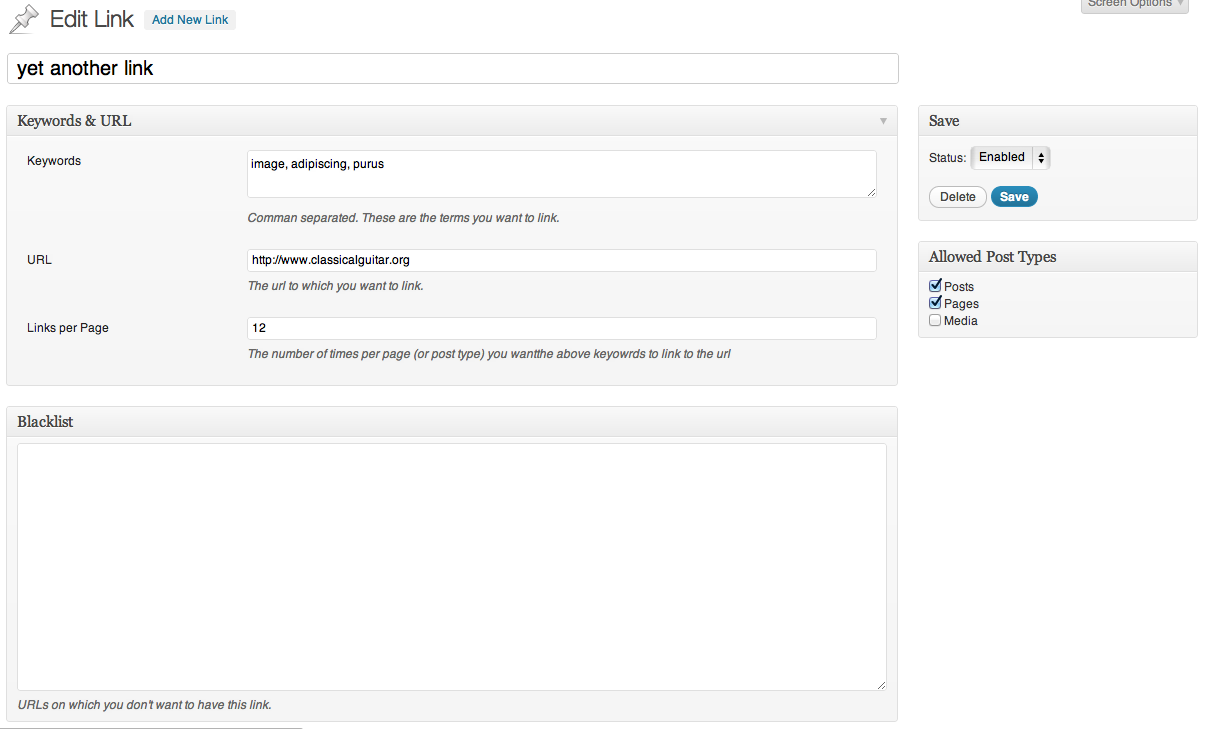
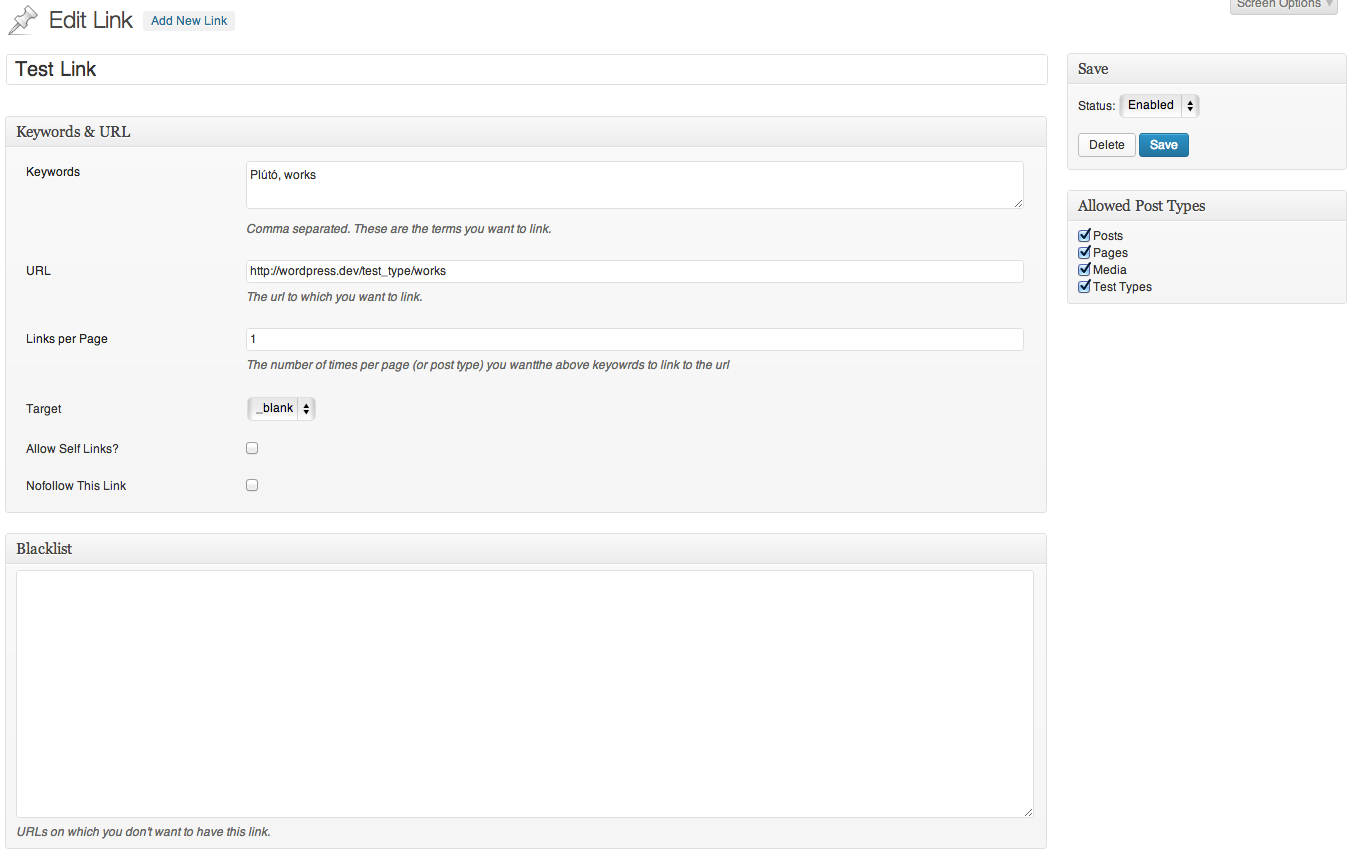
SEO Auto-Linker: Sync v0.9 from upstream at 69fbc6cd15311ed68b4ed0c1dcfe045d989c2045
git-svn-id: https://vip-svn.wordpress.com/plugins@88055 dd790b09-5c1c-0410-8744-875116bcd8a6

diff --git a/seo-auto-linker/inc/front.php b/seo-auto-linker/inc/front.php
@@ -23,6 +23,15 @@ class SEO_Auto_Linker_Front extends SEO_Auto_Linker_Base
      */
     private static $permalink;
 
+    /**
+     * Container for word boundaries.
+     *
+     * @since   0.9
+     * @access  private
+     * @var     array
+     */
+    private static $boundaries = array();
+
     /*
      * Adds actions and filters and such
      *
@@ -106,13 +115,23 @@ class SEO_Auto_Linker_Front extends SEO_Auto_Linker_Base
             $regex = self::get_kw_regex($l);
             $url = self::get_link_url($l);
             $max = self::get_link_max($l);
-            if(!$regex || !$url || !$max)
-                continue;
+
+            if(
+                !$regex || !$url || !$max ||
+                ($url == self::$permalink && !self::self_links_allowed($l))
+            ) continue;
             
             $target = self::get_link_target($l);
+            $replace = sprintf(
+                '$1<a href="%1$s" title="$2" target="%2$s" %3$s>$2</a>$3',
+                esc_url($url),
+                esc_attr($target),
+                self::is_nofollow($l) ? 'rel="nofollow"' : ''
+            );
+
             $filtered = preg_replace(
                 $regex,
-                '$1<a href="' . esc_url( $url ) . '" title="$2" target="' . $target . '">$2</a>$3',
+                $replace,
                 $filtered,
                 absint($max)
             );
@@ -135,8 +154,10 @@ class SEO_Auto_Linker_Front extends SEO_Auto_Linker_Base
     {
         $rv = true;
 
-        if(!is_singular() || !in_the_loop())
-            $rv = false;
+        if(
+            (!is_singular() && apply_filters('seoal_only_single', true)) ||
+            !in_the_loop()
+        ) $rv = false;
 
         if(strpos($post->post_content, '<!--nolinks-->') !== false)
             $rv = false;
@@ -213,7 +234,15 @@ class SEO_Auto_Linker_Front extends SEO_Auto_Linker_Base
         $keywords = self::get_keywords($link);
         if(!$keywords)
             return false;
-        return sprintf('/(\b)(%s)(\b)/ui', implode('|', $keywords));
+
+        list($ob, $cb) = self::get_boundaries($link);
+
+        return sprintf(
+            '/(%s)(%s)(%s)/ui',
+            $ob,
+            implode('|', $keywords),
+            $cb
+        );
     }
 
     /*
@@ -274,6 +303,38 @@ class SEO_Auto_Linker_Front extends SEO_Auto_Linker_Base
             $target = '_self';
         }
         return esc_attr($target);
+    }
+
+    /**
+     * Check whether or not a link allows a given post to have links to itself.
+     *
+     * @since   0.85
+     * @access  protected
+     * @return  bool
+     */
+    protected static function self_links_allowed($link)
+    {
+        return apply_filters(
+            'seoal_allow_self_links', 
+            'on' == self::get_meta($link, 'self_links'),
+            $link
+        );
+    }
+
+    /**
+     * check whether or not a link is nofollowed.
+     *
+     * @since   0.85
+     * @access  protected
+     * @return  bool
+     */
+    protected static function is_nofollow($link)
+    {
+        return apply_filters(
+            'seoal_link_nofollow',
+            'on' == self::get_meta($link, 'nofollow'),
+            $link
+        );
     }
 
     /*
@@ -341,6 +402,37 @@ class SEO_Auto_Linker_Front extends SEO_Auto_Linker_Base
             array_values($arr),
             $content
         );
+    }
+
+    /**
+     * Get regex word boundaries.
+     *
+     * @since   0.9
+     * @access  protected
+     * @uses    get_option
+     * @return  array
+     */
+    public static function get_boundaries($link)
+    {
+        $opts = get_option(self::SETTING, array());
+
+        $alt_b = isset($opts['word_boundary']) && 'on' == $opts['word_boundary'];
+
+        if(apply_filters('seoal_unicode_boundaries', $alt_b, $link))
+        {
+            $ob = '(?<!\pL)'; // Negative look behind (anything that isn't a unicode letter)
+            $cb = '(?!\pL)'; // Negative look ahead (anything that isn't a unicode letter)
+        }
+        else
+        {
+            $ob = $cb = '\b';
+        }
+
+        // Don't change these unless you know what you're doing. Really.
+        $ob = apply_filters('seoal_opening_word_boundary', $ob, $link);
+        $cb = apply_filters('seoal_closing_word_boundary', $cb, $link);
+
+        return array($ob, $cb);
     }
 }
 

diff --git a/seo-auto-linker/inc/post-type.php b/seo-auto-linker/inc/post-type.php
@@ -254,19 +254,28 @@ class SEO_Auto_Linker_Post_Type extends SEO_Auto_Linker_Base
             return;
 
         $map = array(
-            'keywords' => array('strip_tags', 'esc_attr'),
-            'url'      => array('esc_url'),
-            'times'    => array('absint'),
-            'target'   => array('esc_attr')
+            'keywords'   => array('strip_tags', 'esc_attr'),
+            'url'        => array('esc_url'),
+            'times'      => array('absint'),
+            'target'     => array('esc_attr'),
+            'self_links' => 'checkbox',
+            'nofollow'   => 'checkbox',
         );
         foreach($map as $key => $escapers)
         {
             $key = self::get_key($key);
             if(isset($_POST[$key]) && $_POST[$key])
             {
-                $val = $_POST[$key];
-                foreach($escapers as $e)
-                    $val = call_user_func($e, $val);
+                if('checkbox' == $escapers)
+                {
+                    $val = 'on';
+                }
+                else
+                {
+                    $val = $_POST[$key];
+                    foreach($escapers as $e)
+                        $val = call_user_func($e, $val);
+                }
                 update_post_meta($post_id, $key, $val);
             }
             else
@@ -350,6 +359,8 @@ class SEO_Auto_Linker_Post_Type extends SEO_Auto_Linker_Base
     public static function keyword_cb($post)
     {
         $target = self::get_meta('target');
+        $self_links = self::get_meta('self_links', 'off');
+        $nofollow = self::get_meta('nofollow', 'off');
         ?>
         <table class="form-table">
             <tr>
@@ -361,7 +372,7 @@ class SEO_Auto_Linker_Post_Type extends SEO_Auto_Linker_Base
                 <td>
                     <textarea class="widefat" name="<?php self::key('keywords'); ?>" id="<?php self::key('keywords'); ?>"><?php self::meta('keywords', 'textarea'); ?></textarea>
                     <p class="description">
-                        <?php _e('Comman separated. These are the terms you want to link.', 'seoal'); ?>
+                        <?php _e('Comma separated. These are the terms you want to link.', 'seoal'); ?>
                     </p>
                 </td>
             </tr>
@@ -407,6 +418,35 @@ class SEO_Auto_Linker_Post_Type extends SEO_Auto_Linker_Base
                         <?php endforeach; ?>
                     </select>
                 </td>
+            </tr>
+            <tr>
+                <td>
+                    <label for="<?php self::key('self_links'); ?>">
+                        <?php _e('Allow Self Links?', 'seoal'); ?>
+                    </label>
+                </td>
+                <td>
+                    <input type="checkbox"
+                           name="<?php self::key('self_links'); ?>"
+                           id="<?php self::key('target'); ?>"
+                           value="on"
+                           <?php checked($self_links, 'on'); ?> />
+                </td>
+            </tr>
+            <tr>
+                <td>
+                    <label for="<?php self::key('nofollow'); ?>">
+                        <?php _e('Nofollow This Link', 'seoal'); ?>
+                    </label>
+                </td>
+                <td>
+                    <input type="checkbox"
+                           name="<?php self::key('nofollow'); ?>"
+                           id="<?php self::key('nofollow'); ?>"
+                           value="on"
+                           <?php checked($nofollow, 'on'); ?> />
+                </td>
+            </tr>
         </table>
         <?php
     }

diff --git a/seo-auto-linker/inc/admin.php b/seo-auto-linker/inc/admin.php
@@ -31,7 +31,7 @@ class SEO_Auto_Linker_Admin extends SEO_Auto_Linker_Base
         );
 
         add_settings_section(
-            'seoal-blacklist',
+            'blacklist',
             __('Sitewide Blacklist', 'seoal'),
             array(get_class(), 'blacklist_section'),
             self::SETTING
@@ -42,7 +42,22 @@ class SEO_Auto_Linker_Admin extends SEO_Auto_Linker_Base
             __('Blacklist', 'seoal'),
             array(get_class(), 'blacklist_field'),
             self::SETTING,
-            'seoal-blacklist'
+            'blacklist'
+        );
+
+        add_settings_section(
+            'word_boundary',
+            __('Word Boundaries', 'seoal'),
+            array(get_class(), 'boundary_section'),
+            self::SETTING
+        );
+
+        add_settings_field(
+            'seoal-boundary-field',
+            __('Use Alternative Word Boundaries?', 'seoal'),
+            array(get_class(), 'boundary_field'),
+            self::SETTING,
+            'word_boundary'
         );
     }
 
@@ -74,11 +89,13 @@ class SEO_Auto_Linker_Admin extends SEO_Auto_Linker_Base
         $out = array();
 
         $blacklist = isset($in['blacklist']) && $in['blacklist'] ?
-            $in['blacklist'] : array();
+            $in['blacklist'] : '';
         $lines = preg_split('/\r\n|\r|\n/', $blacklist);
         $out['blacklist'] = array_map('esc_url', $lines);
         if ( $blacklist_max = apply_filters( 'seoal_blacklist_max', '__return_false' ) )
-        	$out['blacklist'] = array_slice( $out['blacklist'], 0, (int)$blacklist_max );
+            $out['blacklist'] = array_slice( $out['blacklist'], 0, (int)$blacklist_max );
+
+        $out['word_boundary'] = !empty($in['word_boundary']) ? 'on' : 'off';
 
         add_settings_error(
             self::SETTING,
@@ -120,10 +137,25 @@ class SEO_Auto_Linker_Admin extends SEO_Auto_Linker_Base
      */
     public static function blacklist_section()
     {
-        echo '<p>';
+        echo '<p class="description">';
         _e('The URLs on your site where you do not want any automatic links to'.
             ' appear.  One URL per line.', 'seoal');
         echo '</p>';
+    }
+
+    /**
+     * Callback for the word boundary section.
+     *
+     * @since   0.9
+     * @access  public
+     * @return  void
+     */
+    public static function boundary_section()
+    {
+        echo '<p class="description">',
+            __("If you're having trouble with SEO Auto Linker matching unicode ".
+               "characters and word boundaries, try checking the box below.", 'seoal'),
+            '<p>';
     }
 
     /********** Settings Fields Callbacks **********/
@@ -140,8 +172,26 @@ class SEO_Auto_Linker_Admin extends SEO_Auto_Linker_Base
         $blacklist = implode("\n", array_map('esc_url', $blacklist));
         printf(
             '<textarea id="%1$s" name="%1$s" class="widefat" rows="15">%2$s</textarea>',
-            self::get_key('blacklist'),
+            esc_attr(self::get_key('blacklist')),
             esc_textarea($blacklist)
+        );
+    }
+
+    /**
+     * Callback for the word boundary field.
+     *
+     * @since   0.9
+     * @access  public
+     * @return  void
+     */
+    public static function boundary_field()
+    {
+        $opts = get_option(self::SETTING, array());
+        $boundary = isset($opts['word_boundary']) && 'on' == $opts['word_boundary'] ? 'on' : 'off';
+        printf(
+            '<input type="checkbox" name="%1$s" id="%1$s value="on" %2$s/>',
+            esc_attr(self::get_key('word_boundary')),
+            checked('on', $boundary, false)
         );
     }
 

diff --git a/seo-auto-linker/seo-auto-linker.php b/seo-auto-linker/seo-auto-linker.php
@@ -3,7 +3,7 @@
 Plugin Name: SEO Auto Linker
 Plugin URI: http://pmg.co/seo-auto-linker
 Description: Allows you to automatically link terms with in your post, page or custom post type content.
-Version: 0.8.2
+Version: 0.9
 Author: Christopher Davis
 Author URI: http://christopherdavis.me
 Text Domain: seoal
